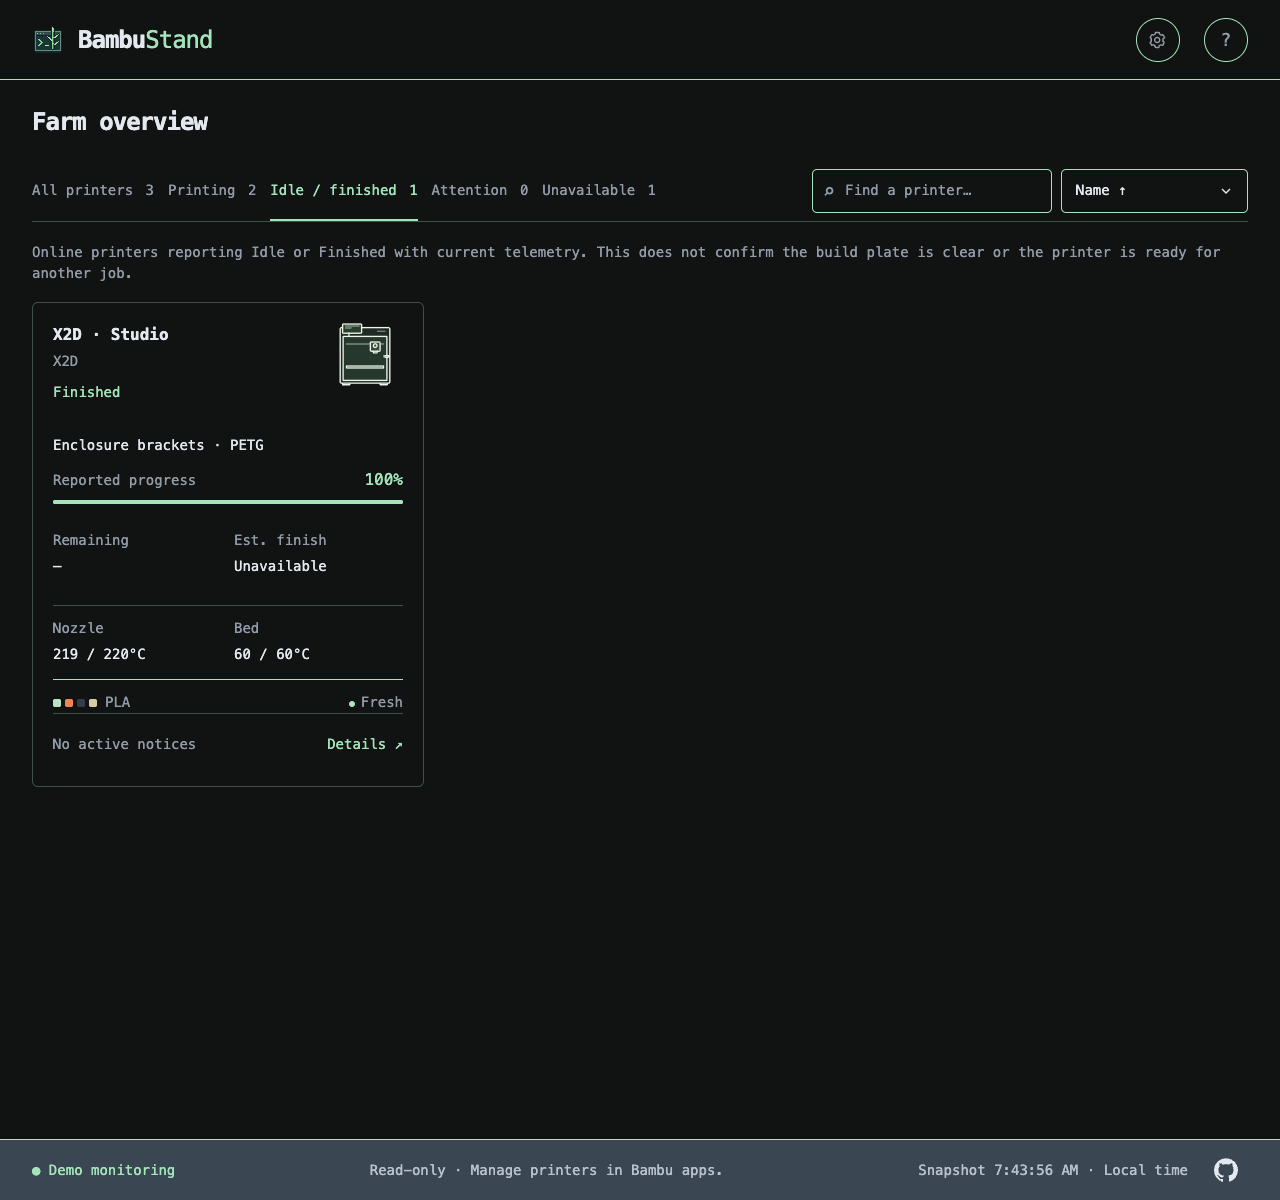
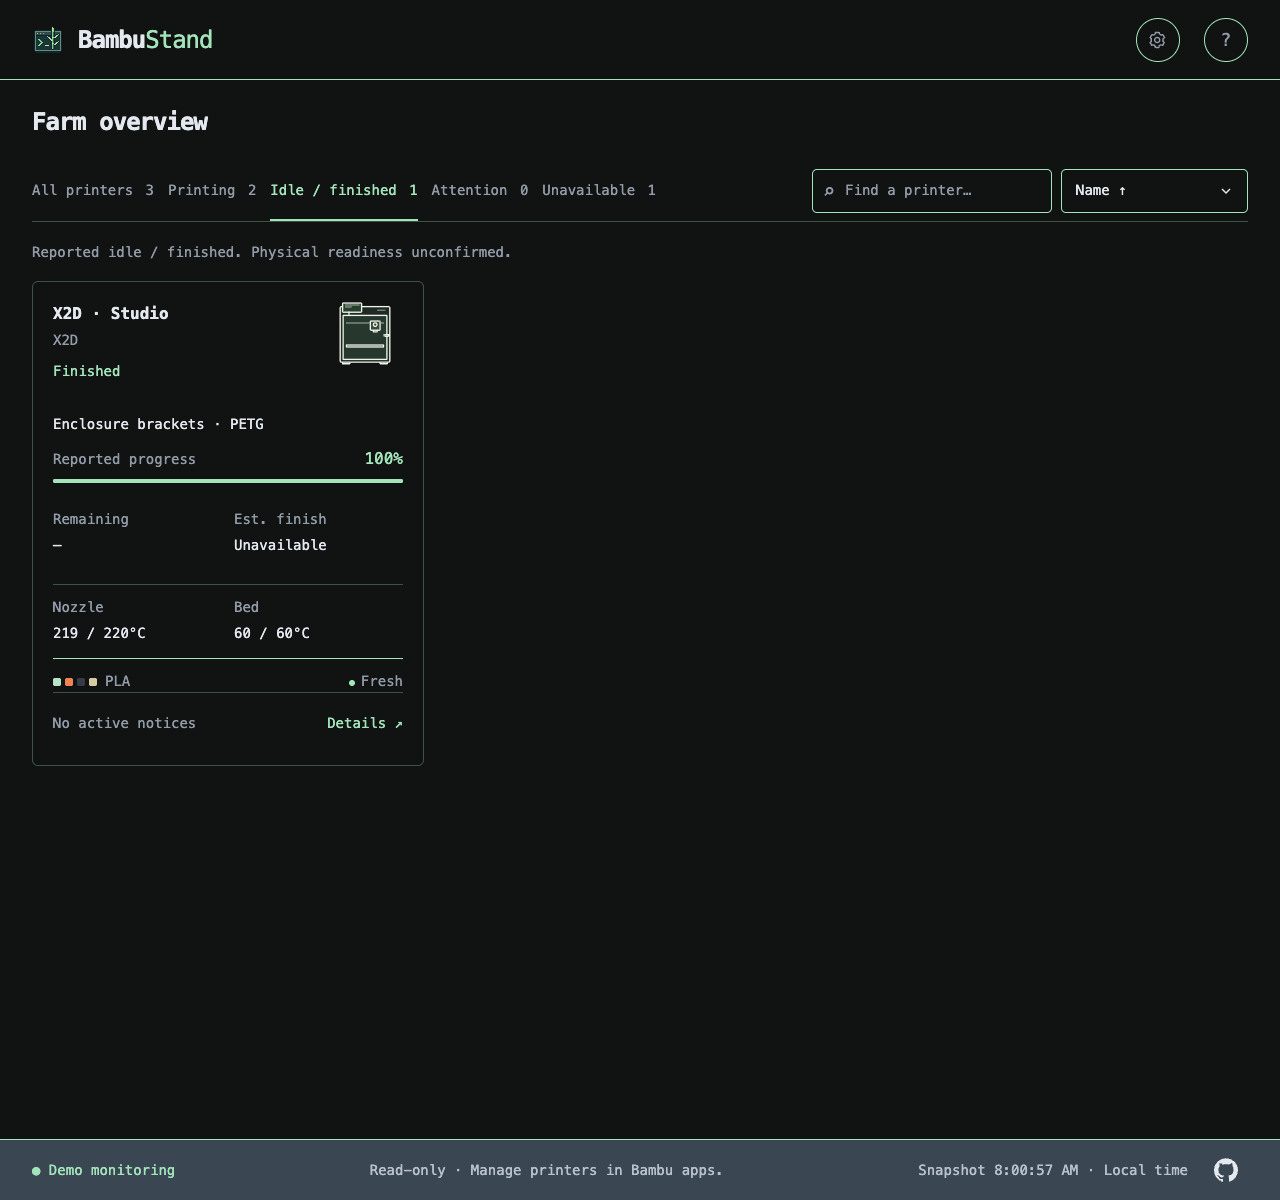
Align mobile status controls and compact filter guidance

diff --git a/internal/webserver/assets/index.html b/internal/webserver/assets/index.html
@@ -51,7 +51,14 @@
               ><button data-filter="attention" aria-pressed="false">Attention <span id="attention-count">0</span></button
               ><button data-filter="unavailable" aria-pressed="false">Unavailable <span id="unavailable-count">0</span></button>
             </div>
-            <label class="mobile-status">Status<select id="mobile-filter" aria-describedby="idle-filter-help"></select></label>
+            <label class="mobile-status">Status
+              <span class="sort-control">
+                <select id="mobile-filter" aria-describedby="idle-filter-help"></select>
+                <svg viewBox="0 0 24 24" fill="none" stroke="currentColor" stroke-width="1.8" aria-hidden="true" focusable="false">
+                  <path d="m6 9 6 6 6-6" />
+                </svg>
+              </span>
+            </label>
             <div class="tools">
               <label class="search"
                 ><span>⌕</span
@@ -71,7 +78,7 @@
               </div>
             </div>
           </div>
-          <p id="idle-filter-help" class="filter-help" hidden>Online printers reporting Idle or Finished with current telemetry. This does not confirm the build plate is clear or the printer is ready for another job.</p>
+          <p id="idle-filter-help" class="filter-help" hidden>Reported idle / finished. Physical readiness unconfirmed.</p>
           <div id="cards" class="cards">
             <div class="empty">Waiting for a monitoring snapshot…</div>
           </div>

diff --git a/internal/webserver/assets/style.css b/internal/webserver/assets/style.css
@@ -1371,7 +1371,8 @@ footer { gap: 8px 16px; padding: 8px 32px; font-size: .875rem; }
   .toolbar { padding-top: 8px; }
   .filters { display: none; }
   .mobile-status { display: flex; width: 100%; align-items: center; gap: 12px; font-size: .875rem; color: var(--secondary); }
-  .mobile-status select { flex: 1; min-width: 0; }
+  .mobile-status .sort-control { flex: 1; min-width: 0; }
+  .mobile-status select { width: 100%; min-width: 0; }
   .tools { width: 100%; }
   .search { max-width: none; }
   .card { padding: 18px; }

diff --git a/docs/development/validation.md b/docs/development/validation.md
@@ -7,11 +7,19 @@ This record identifies checks actually performed, their source revisions, observ
 Historical entries were consolidated from the [record at `2e9f74a`](https://github.com/cliffom/bambustand/blob/2e9f74a/docs/development/validation.md). Consolidation adds no new product validation. A local pass reported below is a historical report, not a retained test log or a rerun against the current release. Linked CI runs and repository captures are inspectable evidence; temporary capture paths and user-supplied screenshots without repository links were not archived here. Missing environment or revision details are stated rather than reconstructed. Historical names and compatibility results apply to the revision checked.
 
 
+## Mobile status selector refinement (#183)
+
+- **Scope:** 2026-11-13; v0.10.0 follow-up to the owner-provided mobile filter screenshot, with uncommitted changes based on `e8416e4c2f3b`. Prior implementation and toolchain CI passed before this follow-up.
+- **Method:** Same macOS 27.0.1 arm64, Go 1.27.4, Node 24.22.1, Playwright 1.64.1 and Chrome 157.0.8103.78 environment as the dashboard entry below. Started synthetic `serve --demo` on port 8183 because 8080 was occupied by a non-demo session; browser scripts refused that non-demo endpoint before capture or mutation. Used `DEMO_URL=http://127.0.0.1:8183` for layout/theme scripts and gallery tooling, with `SCREENSHOT_FILTER='^(browser-mobile(-offline)?|browser-idle-filter(-mobile)?)\.png$'`. Reran the 36 layout cases and two compact interaction cases, extending the inset/centering/text-clearance/pointer assertions to the mobile Status chevron. Ran 28 theme/layout combinations, the 48 browser unit tests, `go test -race ./internal/webserver`, formatting, pinned lint and `make docs-check`. Inspected the resulting 390×844 Gruvbox Dark Idle / finished capture and default mobile/offline captures.
+- **Result:** All listed checks passed. Status now shares Sort's custom chevron size, centered placement, right inset and reserved text padding while retaining the native select interaction and accessible label. The Idle / finished helper is shorter while retaining the physical-readiness qualification; full membership/readiness guidance remains in Help and the user guide. Updated [desktop filter](../../assets/screenshots/browser-idle-filter.png), [mobile](../../assets/screenshots/browser-mobile.png), [mobile offline](../../assets/screenshots/browser-mobile-offline.png), and new [Gruvbox Dark mobile filter](../../assets/screenshots/browser-idle-filter-mobile.png) captures. The prior dashboard entry retains its original mobile evidence in a separately named capture. README, other guides/help and desktop/theme/inspector/terminal captures remain accurate: their depicted controls/layout and selection behavior did not change. No additional release version is required; this refines the pending v0.10.0 PR.
+- **Limits:** Synthetic Chromium geometry and visual inspection do not establish Safari/Firefox/native mobile select menus or hardware validation. The supplied screenshot's browser/device metadata was unavailable. Temporary test output is unarchived; broader browser/device checks remain in [#139](https://github.com/cliffom/bambustand/issues/139).
+
+
 ## Compact browser dashboard (#183)
 
 - **Scope:** 2026-11-12 local date; v0.10.0 preparation on `feat/183-compact-web-dashboard`, based on `d2274bd63483`, with uncommitted implementation and documentation changes. Presentation/navigation checks are separate from live hardware and the earlier dashboard/inspector evidence below.
 - **Method:** macOS 27.0.1 (26A434) arm64, Go 1.27.4, Node 24.22.1, Playwright 1.64.1 and installed Chrome 157.0.8103.78. Ran `make fmt-check lint test check build` with pinned golangci-lint v2.15.0, `make docs-check`, `make vuln-check`, `make audit-faults`, `make release`, `./bin/bambustand --version`, `git diff --check`, the three dependency-free browser scripts, and the layout/inspector/theme-layout scripts against foreground `serve --demo`. Layout checks covered 0/1/24 printers at 1440×1000, 1920×1080, 1280×800, 390×844, 320×568, 568×320 and 1280×240 at normal text, plus 320×568, 390×844, 780×844, 568×320 and 1280×240 at 200% text. Separate 1440/390-width cases checked search/status intersections, desktop/mobile count parity, recovery, Details/Notices entry, exact action focus after polling, tall-card action visibility and reduced motion. Inspector checks covered those twelve size/text combinations, all three panels, long names/jobs, multiple nozzles/AMS units, unknown/zero/empty inventory, independent estimates/drying, offline/stale/feed loss, hiding and failed-save recovery. Theme checks covered Follow host and all six bundled choices in 28 size/theme combinations. Ran `node tools/capture-browser-screenshots.cjs` with `NODE_PATH=/private/tmp/bambustand-web-concept/node_modules` and `BROWSER_PATH=/Applications/Google Chrome.app/Contents/MacOS/Google Chrome`; it generated eighteen current captures, including the new 1440×1000 idle example. The observer inspected the gallery, enlarged/short-window inspector captures and a temporary five-model artwork view for alignment, readable labels, clipping, tab/close access, footer clearance and scrolling. Temporary logs/contact sheets remain unarchived.
-- **Result:** The full race/PTY suite, formatting, lint (zero issues), vet/build, documentation checks, 48 browser unit tests, 36 layout cases plus two compact-interaction scenarios, twelve inspector combinations and 28 theme/layout combinations passed. The vulnerability scan found no vulnerabilities; the pinned fault audit passed. Four macOS/Linux arm64/amd64 archives passed inventory/documentation/helper checks, and the local binary reported 0.10.0. Initial [CI at `a94ac57`](https://github.com/cliffom/bambustand/actions/runs/43388514859) failed on Ubuntu before tests: its pinned Go 1.27.3 reported GO-2026-6859 (net/http), fixed in 1.27.4. The macOS job was canceled by fail-fast; lint passed. Local checks had used the installed 1.27.4 and found no vulnerabilities. The follow-up pins 1.27.4 in go.mod and updates maintained source-build requirements; the local scan and checks use that patched version. Browser checks reproduced and fixed an invisible result announcement extending the page range, action-row overflow at narrow enlarged text, an over-shrunk search/sort group at 1280×240/200%, inadequate short-window inspector space, and keyboard clearance that could move a tall card's focused action out of view. Toolbar pinning is flush under the header, with short-window flow fallback. Reviewed/replaced every maintained browser gallery capture; representative results are [overview](../../assets/screenshots/browser.png), [idle A1 mini](../../assets/screenshots/browser-idle.png), [scrolled toolbar](../../assets/screenshots/browser-scrolled.png), [mobile](../../assets/screenshots/browser-mobile.png), [Overview](../../assets/screenshots/browser-printer-details.png), [Filament](../../assets/screenshots/browser-filament.png), [Notices](../../assets/screenshots/browser-notices.png) and [Settings](../../assets/screenshots/browser-themes.png). README, usage, farm-view, branding, UI direction and browser Help now describe the resulting behavior. TUI/CLI help and terminal captures remain accurate because their controls/layout did not change. Older entries that linked replaced captures now link retained `before-183` copies from `d2274bd`; no historical conclusion or limitation was changed. Open issue/milestone states were reviewed for roadmap priority reconciliation; #183 precedes the notification backlog without implementing its separate issues.
+- **Result:** The full race/PTY suite, formatting, lint (zero issues), vet/build, documentation checks, 48 browser unit tests, 36 layout cases plus two compact-interaction scenarios, twelve inspector combinations and 28 theme/layout combinations passed. The vulnerability scan found no vulnerabilities; the pinned fault audit passed. Four macOS/Linux arm64/amd64 archives passed inventory/documentation/helper checks, and the local binary reported 0.10.0. Initial [CI at `a94ac57`](https://github.com/cliffom/bambustand/actions/runs/43388514859) failed on Ubuntu before tests: its pinned Go 1.27.3 reported GO-2026-6859 (net/http), fixed in 1.27.4. The macOS job was canceled by fail-fast; lint passed. Local checks had used the installed 1.27.4 and found no vulnerabilities. The follow-up pins 1.27.4 in go.mod and updates maintained source-build requirements; the local scan and checks use that patched version. Browser checks reproduced and fixed an invisible result announcement extending the page range, action-row overflow at narrow enlarged text, an over-shrunk search/sort group at 1280×240/200%, inadequate short-window inspector space, and keyboard clearance that could move a tall card's focused action out of view. Toolbar pinning is flush under the header, with short-window flow fallback. Reviewed/replaced every maintained browser gallery capture; representative results are [overview](../../assets/screenshots/browser.png), [idle A1 mini](../../assets/screenshots/browser-idle.png), [scrolled toolbar](../../assets/screenshots/browser-scrolled.png), [mobile before the selector refinement](../../assets/screenshots/browser-mobile-before-status-selector.png), [Overview](../../assets/screenshots/browser-printer-details.png), [Filament](../../assets/screenshots/browser-filament.png), [Notices](../../assets/screenshots/browser-notices.png) and [Settings](../../assets/screenshots/browser-themes.png). README, usage, farm-view, branding, UI direction and browser Help now describe the resulting behavior. TUI/CLI help and terminal captures remain accurate because their controls/layout did not change. Older entries that linked replaced captures now link retained `before-183` copies from `d2274bd`; no historical conclusion or limitation was changed. Open issue/milestone states were reviewed for roadmap priority reconciliation; #183 precedes the notification backlog without implementing its separate issues.
 - **Limits:** Synthetic Chromium evidence establishes neither Safari/Firefox/mobile-device behavior (tracked in [#139](https://github.com/cliffom/bambustand/issues/139)) nor hardware telemetry accuracy, OS notification permission/banner/audio delivery, real-account persistence/reconnect, or a published release. Packaging is local/ad-hoc, without signing/notarization or clean-machine distribution evidence. At extreme short/enlarged sizes the page and inspector require scrolling; long title text uses its bounded scrolling header and tabs use horizontal scrolling. Remaining live checks retain their existing scope in [Remaining live checks](#remaining-live-checks).
 
 

diff --git a/docs/development/ui-direction.md b/docs/development/ui-direction.md
@@ -83,7 +83,7 @@ Keep the browser status bar in its own row at the viewport bottom, with a full-w
 
 Compact the branding/Settings/Help header when the farm workspace scrolls down and restore it at the top. Keep visible content and the scroll range stable during collapse/expansion, preserving the combined page/workspace offset when the outer page also scrolls. Pin the complete filter/search/sort toolbar immediately beneath the compact header once reached, using an opaque theme background and keeping card headings clear during navigation. Restore focus after telemetry updates without bringing an offscreen card back into view. If the toolbar would leave less than the minimum usable workspace (the smaller of 12rem or half the viewport height), let it scroll normally. Recalculate after resizing or text reflow; preserve modal layering and avoid motion during geometry changes.
 
-Use one primary browser status toolbar (All printers, Printing, Idle / finished, Attention, Unavailable), with search and sort. Counts intersect each status predicate with the current name/model search independently of the selected status. Clearing search restores farm-wide counts. On narrow screens show a labeled Status selector instead of the desktop buttons, with identical counts. Omit whole-farm summary panels and visible duplicate result counts; announce results through a visually hidden live region. Keep snapshot/local-time metadata in the footer. Idle / finished requires current telemetry, an available browser feed and a connected session; exclude unknown/offline/stale readings. Printing retains last-reported state membership; attention may overlap other groups. Never claim physical readiness. Empty results explain the query/status intersection and offer Clear search and/or Show all statuses; restore focus to search or the visible status control. If a focused printer leaves the view, return focus to the visible active status control.
+Use one primary browser status toolbar (All printers, Printing, Idle / finished, Attention, Unavailable), with search and sort. Counts intersect each status predicate with the current name/model search independently of the selected status. Clearing search restores farm-wide counts. On narrow screens show a labeled Status selector instead of the desktop buttons, with identical counts. Status and Sort use consistently sized, centered, inset chevrons with reserved text space. Omit whole-farm summary panels and visible duplicate result counts; announce results through a visually hidden live region. Keep snapshot/local-time metadata in the footer. Idle / finished requires current telemetry, an available browser feed and a connected session; exclude unknown/offline/stale readings. Printing retains last-reported state membership; attention may overlap other groups. Never claim physical readiness. Empty results explain the query/status intersection and offer Clear search and/or Show all statuses; restore focus to search or the visible status control. If a focused printer leaves the view, return focus to the visible active status control.
 
 Cards consolidate name, model and textual status on the left with top-aligned decorative artwork on the right. Keep idle cards short with No active print and available telemetry. Name and Details actions open Overview; the separate attention action opens Notices, as do system notifications. Keep action targets at least 44 CSS pixels at default text. Preserve each focused action and connected artwork across polls. Use restrained theme-derived borders. Keep the inspector tabs in a single horizontally scrollable row; all remain reachable by touch and keyboard. At narrow widths/enlarged text, omit decorative header art/model, constrain the scrollable title, and reserve space for readable panel content and Close. The approved [Design study 02](../reference/design/dashboard-study-02.html) is a synthetic visual reference, not production or hardware evidence.
 

diff --git a/docs/user/usage.md b/docs/user/usage.md
@@ -167,7 +167,7 @@ The [compact idle example](../../assets/screenshots/browser-idle.png) shows an A
 
 The [scrolled desktop view](../../assets/screenshots/browser-scrolled.png) shows the compact header and pinned filter/search/sort toolbar at 1280 × 640. The toolbar also stays visible in the mobile offline-card view below.
 
-The [Appearance and notification settings](../../assets/screenshots/browser-themes.png) capture above shows the theme selector and Enable/Test/Disable controls with automatic browser notifications off. The [Idle / finished filter](../../assets/screenshots/browser-idle-filter.png) capture uses a separate synthetic finished-printer scenario; it does not establish that a printer is physically ready.
+The [Appearance and notification settings](../../assets/screenshots/browser-themes.png) capture above shows the theme selector and Enable/Test/Disable controls with automatic browser notifications off. The [Idle / finished filter](../../assets/screenshots/browser-idle-filter.png) and [mobile Status selector in Gruvbox Dark](../../assets/screenshots/browser-idle-filter-mobile.png) captures use a separate synthetic finished-printer scenario; it does not establish that a printer is physically ready.
 
 | Mobile overview | Mobile offline card after scrolling |
 | --- | --- |
